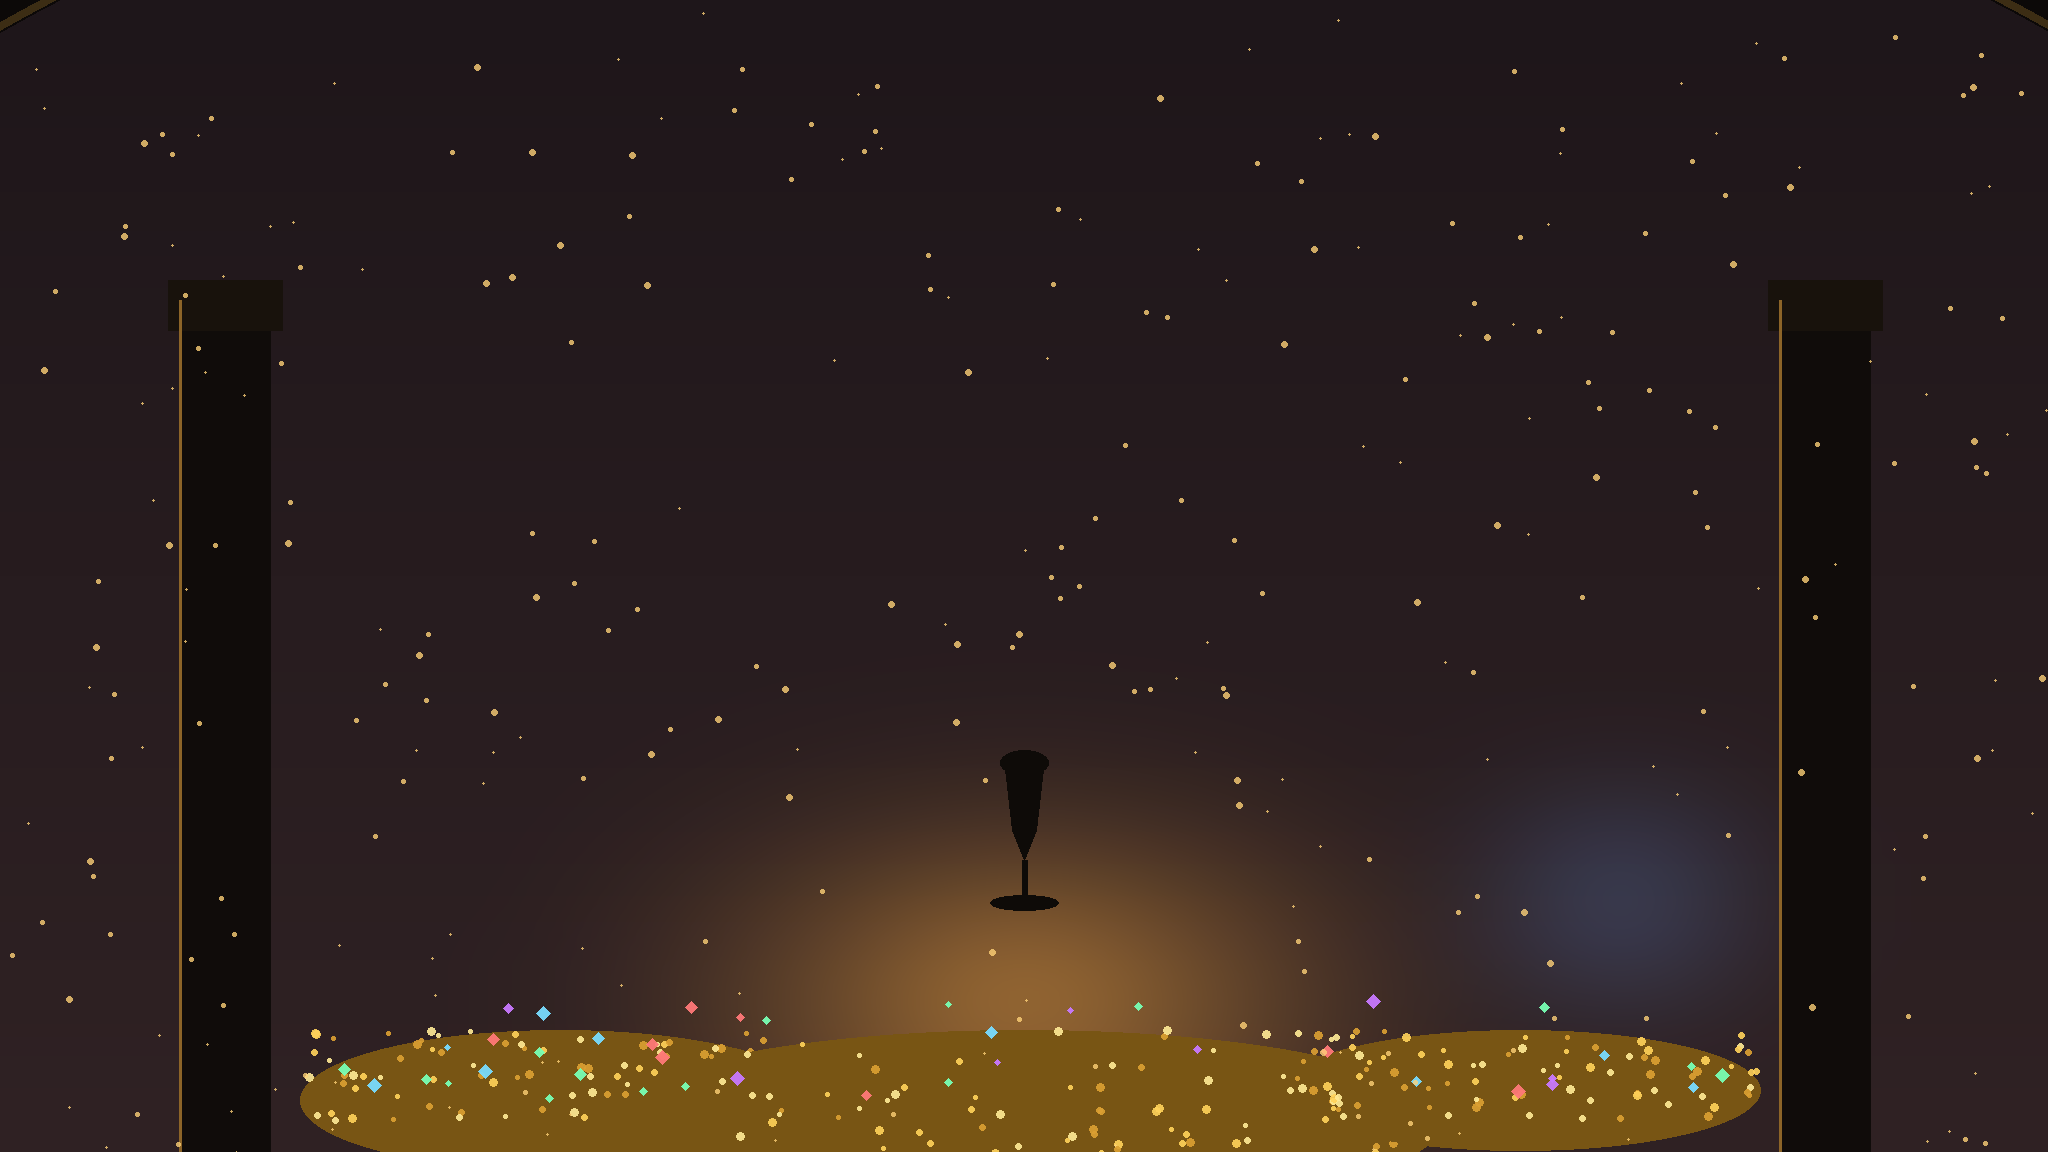
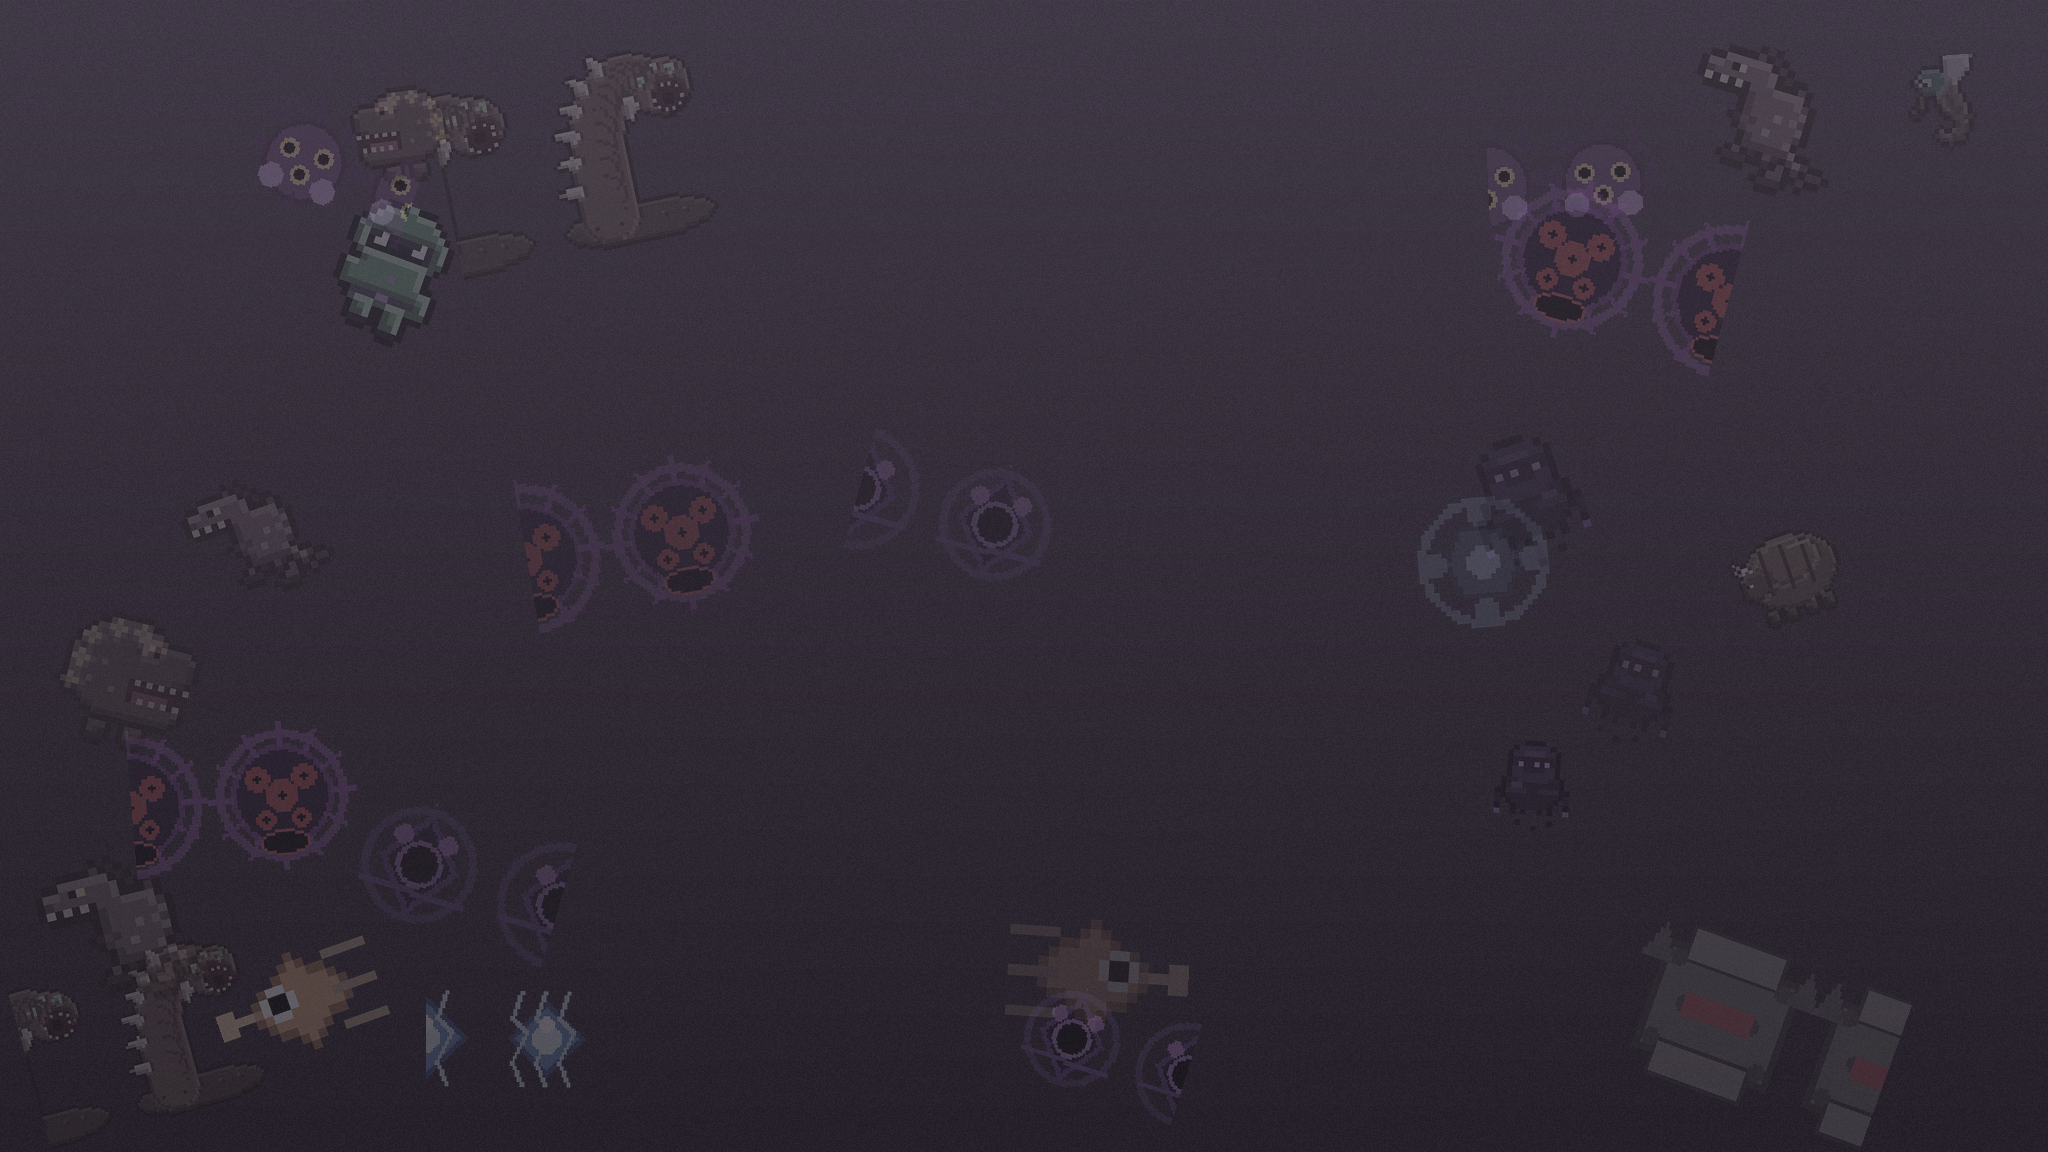
v1.1.4: landing rebuilt Brotato-style — doodle wall, hero Ironheart, text menu

diff --git a/style.css b/style.css
@@ -285,48 +285,78 @@ input[type=checkbox]{accent-color:var(--accent);width:16px;height:16px;cursor:po
 .class-btn.locked:hover{transform:none;filter:grayscale(0.7)}
 }
 
-/* ---------- Brotato-style landing (v0.7.6) ---------- */
+/* ---------- Brotato-style landing (v1.1.4) ---------- */
 #menu.landing-mode{
   width:100vw; height:100vh; max-height:100vh; left:50%; top:50%;
   border:none; border-radius:0; padding:0; box-shadow:none; overflow:hidden;
-  background:#0a0e14 url('assets/ui/menu_bg.png') center/cover no-repeat;
+  background:#221d26 url('assets/ui/menu_bg.png') center/cover no-repeat;
   animation:none;
 }
 #menu.landing-mode::before{
   content:''; position:absolute; inset:0;
-  background:radial-gradient(ellipse at 50% 42%, transparent 30%, rgba(4,6,10,.55) 75%, rgba(2,3,6,.88) 100%);
+  background:radial-gradient(ellipse at 50% 42%, transparent 30%, rgba(4,6,10,.45) 75%, rgba(2,3,6,.8) 100%);
   pointer-events:none;
 }
 #menuStepLanding{ position:relative; width:100%; height:100%; }
-.landing-logo{ position:absolute; top:9%; left:0; right:0; text-align:center; pointer-events:none; }
+.landing-logo{ position:absolute; top:7%; left:0; right:0; text-align:center; pointer-events:none; transform:rotate(-1.2deg); }
 .logo-pressure, .logo-point{
   font-family:'Trebuchet MS','Segoe UI',system-ui,sans-serif; font-weight:900;
-  font-size:clamp(54px, 9vw, 118px); line-height:.95; letter-spacing:2px; color:#fff;
+  font-size:clamp(48px, 8vw, 104px); line-height:.95; letter-spacing:2px; color:#fff;
   text-shadow:
-    -3px -3px 0 #101418, 3px -3px 0 #101418, -3px 3px 0 #101418, 3px 3px 0 #101418,
-    -3px 0 0 #101418, 3px 0 0 #101418, 0 -3px 0 #101418, 0 3px 0 #101418,
+    -4px -4px 0 #101418, 4px -4px 0 #101418, -4px 4px 0 #101418, 4px 4px 0 #101418,
+    -4px 0 0 #101418, 4px 0 0 #101418, 0 -4px 0 #101418, 0 4px 0 #101418,
     0 8px 0 rgba(0,0,0,.55), 0 14px 28px rgba(0,0,0,.6);
 }
 .logo-point{ color:#ff5d4d; }
-.logo-sub{ margin-top:10px; font-size:clamp(13px, 1.6vw, 19px); font-weight:700;
+.logo-o{
+  height:.92em; width:auto; image-rendering:pixelated;
+  vertical-align:-.08em; margin:0 .01em;
+  filter:drop-shadow(0 4px 0 rgba(0,0,0,.55));
+}
+.logo-sub{ margin-top:12px; font-size:clamp(13px, 1.6vw, 19px); font-weight:700;
   color:#dbe8ff; text-shadow:0 2px 0 #000, 0 0 18px rgba(0,0,0,.8); letter-spacing:1px; }
+/* hero: Ironheart centre-stage in a warm spotlight pool */
+.landing-spotlight{ position:absolute; left:50%; top:76%; width:min(560px, 48vw); height:130px;
+  transform:translate(-50%,-50%); border-radius:50%; pointer-events:none;
+  background:radial-gradient(ellipse at center, rgba(216,178,118,.5) 0%, rgba(190,150,95,.28) 45%, rgba(190,150,95,0) 70%); }
+.landing-hero{ position:absolute; left:50%; top:52%; transform:translateX(-50%);
+  height:clamp(120px, 21vh, 200px); width:auto; image-rendering:pixelated; pointer-events:none;
+  filter:drop-shadow(0 12px 14px rgba(0,0,0,.55)); }
+@media (prefers-reduced-motion: no-preference){
+  .landing-hero{ animation:heroBob 2.4s ease-in-out infinite alternate; }
+  @keyframes heroBob{ from{ transform:translateX(-50%) translateY(0); } to{ transform:translateX(-50%) translateY(-7px); } }
+}
+/* menu: one left column, plain text like Brotato — Start leads */
 .landing-cols{ position:absolute; inset:0; pointer-events:none; }
-.landing-left.menu-left-col{ position:absolute; left:4%; top:42%; display:flex; flex-direction:column; gap:10px; pointer-events:auto; align-items:flex-start; }
-.menu-left-col .btn-compact{ min-width:160px; font-size:14px; padding:9px 18px; }
-.landing-right{ position:absolute; right:4%; top:52%; display:flex; flex-direction:column; gap:12px;
-  align-items:flex-end; pointer-events:auto; }
-.btn-huge{ font-size:clamp(22px, 2.6vw, 34px) !important; padding:16px 58px !important; border-radius:16px !important; }
-.landing-right .btn{ min-width:190px; font-size:17px; padding:11px 22px; text-align:center; }
+.landing-left.menu-left-col{ position:absolute; left:4%; top:44%; display:flex; flex-direction:column; gap:6px; pointer-events:auto; align-items:flex-start; }
+.landing-menu-btn{
+  background:transparent !important; border:none !important; box-shadow:none !important;
+  color:#fff; font-weight:800; font-size:15px; text-align:left;
+  padding:5px 2px; min-width:0;
+  text-shadow:-2px -2px 0 #101418, 2px -2px 0 #101418, -2px 2px 0 #101418, 2px 2px 0 #101418, 0 3px 0 rgba(0,0,0,.5);
+  transition-property:color, transform;
+  transition-duration:150ms; transition-timing-function:ease-out;
+  -webkit-tap-highlight-color:transparent;
+}
+.landing-start-btn{ font-size:clamp(24px, 2.6vw, 32px); color:#5ff2c8; padding:8px 2px; }
+@media (hover:hover){
+  .landing-menu-btn:hover{ color:#5ff2c8; transform:translateX(4px); background:transparent !important; }
+  .landing-start-btn:hover{ color:#8ffce0; }
+}
+.landing-menu-btn:active:not(:disabled){ transform:scale(.96); }
+.landing-menu-btn:focus-visible{ outline:2px solid #5ff2c8; outline-offset:3px; border-radius:6px; }
 .landing-version{ position:absolute; right:18px; bottom:12px; font-size:13px; color:#8fa8c8; font-weight:700;
   text-shadow:0 1px 0 #000; }
 .landing-hint{ position:absolute; left:0; right:0; bottom:12px; text-align:center; font-size:13px;
   color:#9db4d4; text-shadow:0 1px 0 #000; }
-/* portrait phones: stack the landing buttons vertically instead of two columns */
+/* portrait phones: hero up top, menu stacked centred at the bottom */
 @media (max-width:640px){
-  .landing-cols{ display:flex; flex-direction:column; align-items:center; justify-content:flex-end; gap:12px; padding-bottom:9%; }
-  .landing-left, .landing-right{ position:static; transform:none; align-items:center; }
-  .landing-right .btn{ min-width:220px; }
-  .btn-huge{ padding:14px 44px !important; }
+  .landing-logo{ top:5%; }
+  .landing-hero{ top:38%; height:15vh; }
+  .landing-spotlight{ top:53%; width:66vw; height:64px; }
+  .landing-cols{ display:flex; flex-direction:column; align-items:center; justify-content:flex-end; gap:6px; padding-bottom:9%; }
+  .landing-left{ position:static; transform:none; align-items:center; }
+  .landing-menu-btn{ text-align:center; }
   .landing-version{ bottom:2px; }
 }
 /* touch devices: keyboard hints are useless — hide them */
@@ -346,8 +376,6 @@ input[type=checkbox]{accent-color:var(--accent);width:16px;height:16px;cursor:po
 #menu .btn{ font-size:clamp(14px, 1.35vw, 18px); }
 .select-grid .btn, .class-list .btn, .weapon-list .btn{ font-size:clamp(13px, 1.25vw, 16px); }
 @media (max-width:700px){
-  .landing-right{ top:auto; bottom:64px; }
-  .landing-left{ top:auto; bottom:64px; }
   .logo-pressure, .logo-point{ font-size:15vw; }
 }
 /* hide the old header buttons + title while the landing is up (it has its own) */

diff --git a/Index.html b/Index.html
@@ -39,23 +39,23 @@
       <div id="menuStepLanding" class="menu-step">
         <div class="landing-logo">
           <div class="logo-pressure">PRESSURE</div>
-          <div class="logo-point">POINT</div>
+          <div class="logo-point">P<img class="logo-o" src="assets/ui/hero_ironheart.png" alt="">INT</div>
           <div class="logo-sub">Survive 20 waves. Beat the Overlord.</div>
         </div>
+        <div class="landing-spotlight"></div>
+        <img class="landing-hero" src="assets/ui/hero_ironheart.png" alt="Ironheart">
         <div class="landing-cols left-aligned-menu">
           <div class="landing-left menu-left-col">
-            <button id="landingStartBtn" class="btn btn-primary btn-huge" type="button">Start</button>
-            <button id="landingHowBtn" class="btn btn-secondary btn-compact" type="button">How to Play</button>
-            <button id="landingLeaderboardBtn" class="btn btn-secondary btn-compact" type="button">Leaderboard</button>
-            <button id="landingCreditsBtn" class="btn btn-secondary btn-compact" type="button">Credits</button>
-          </div>
-          <div class="landing-right menu-right-col">
-            <button id="landingAchBtn" class="btn btn-secondary" type="button">Achievements</button>
-            <button id="landingUpgBtn" class="btn btn-secondary" type="button">Upgrades <span id="landingEssence" style="color:#b27bff">0</span></button>
-            <button id="landingSetBtn" class="btn btn-secondary" type="button">Settings</button>
+            <button id="landingStartBtn" class="btn btn-primary landing-menu-btn landing-start-btn" type="button">Start</button>
+            <button id="landingHowBtn" class="btn btn-secondary landing-menu-btn" type="button">How to Play</button>
+            <button id="landingLeaderboardBtn" class="btn btn-secondary landing-menu-btn" type="button">Leaderboard</button>
+            <button id="landingCreditsBtn" class="btn btn-secondary landing-menu-btn" type="button">Credits</button>
+            <button id="landingAchBtn" class="btn btn-secondary landing-menu-btn" type="button">Achievements</button>
+            <button id="landingUpgBtn" class="btn btn-secondary landing-menu-btn" type="button">Upgrades <span id="landingEssence" style="color:#b27bff">0</span></button>
+            <button id="landingSetBtn" class="btn btn-secondary landing-menu-btn" type="button">Settings</button>
           </div>
         </div>
-        <div class="landing-version">v1.1.3</div>
+        <div class="landing-version">v1.1.4</div>
         <div class="landing-hint">P1: WASD + Shift (dash) &nbsp;•&nbsp; P2: Arrow keys + U (dash)</div>
       </div>
 

diff --git a/tools/gen_landing_bg.py b/tools/gen_landing_bg.py
@@ -1,0 +1,107 @@
+#!/usr/bin/env python3
+"""Landing background, Brotato-style: dark mauve wall covered in faint doodles
+of the game's OWN enemy sprites, plus cropped hero/logo-face assets.
+
+Doodles are the real pixel art, desaturated and dimmed to read as pencil
+sketches -- no generated gradients pretending to be art. Spotlight pool is
+done in CSS so it always sits exactly under the hero.
+"""
+import random, os
+from PIL import Image, ImageDraw, ImageFilter, ImageEnhance
+
+ROOT = os.path.dirname(os.path.dirname(os.path.abspath(__file__)))
+W, H = 2048, 1152
+random.seed(13700)  # fixed seed: same wall every run
+
+def frame0(path):
+    im = Image.open(path).convert('RGBA')
+    fw = im.width // 4
+    return im.crop((0, 0, fw, im.height))
+
+def to_doodle(im):
+    """Faint, mostly-desaturated version of a sprite frame -- the face and
+    colours stay readable, it just recedes into the wall."""
+    d = ImageEnhance.Color(im.convert('RGBA')).enhance(0.45)
+    d = ImageEnhance.Brightness(d).enhance(0.95)
+    return d
+
+# --- base: dark mauve-grey vertical gradient (Brotato wall) ---
+top = (62, 54, 68)
+bot = (34, 29, 38)
+base = Image.new('RGB', (W, H))
+px = base.load()
+for y in range(H):
+    t = y / H
+    c = tuple(int(top[i] + (bot[i] - top[i]) * t) for i in range(3))
+    for x in range(W):
+        px[x, y] = c
+base = base.convert('RGBA')
+
+# --- grain ---
+import numpy as np
+noise = np.random.default_rng(7).integers(0, 14, (H, W), dtype=np.uint8)
+grain = Image.fromarray(noise, 'L')
+base = Image.composite(
+    Image.blend(base.convert('RGB'), Image.new('RGB', (W, H), (255, 255, 255)), 0.03),
+    base.convert('RGB'), grain.point(lambda v: 255 if v > 6 else 0))
+base = base.convert('RGBA')
+
+# --- doodle wall ---
+enemy_dir = os.path.join(ROOT, 'assets/sprites/enemies')
+files = sorted(f for f in os.listdir(enemy_dir)
+               if f.startswith('enemy_') and f.endswith('.png'))
+sprites = [to_doodle(frame0(os.path.join(enemy_dir, f))) for f in files]
+# a couple of player classes join the wall too
+for p in ['player_foxglove_down.png', 'player_glassjaw_down.png']:
+    sprites.append(to_doodle(frame0(os.path.join(ROOT, 'assets/sprites/players', p))))
+
+def clear_zone(x, y):
+    # keep the logo (top centre) and hero (centre) readable
+    if 0.28 < x / W < 0.72 and y / H < 0.34:
+        return False
+    if 0.34 < x / W < 0.66 and 0.48 < y / H < 0.80:
+        return False
+    return True
+
+placed = 0
+tries = 0
+while placed < 26 and tries < 300:
+    tries += 1
+    s = random.choice(sprites)
+    # normalise by height so big and small enemies read the same size
+    target_h = random.uniform(95, 210)
+    scale = target_h / s.height
+    w, h = int(s.width * scale), int(s.height * scale)
+    x = random.randint(-40, W - w + 40)
+    y = random.randint(-40, H - h + 40)
+    if not clear_zone(x + w // 2, y + h // 2):
+        continue
+    d = s.resize((w, h), Image.NEAREST)
+    d = d.rotate(random.uniform(-20, 20), resample=Image.BICUBIC, expand=True)
+    if random.random() < 0.5:
+        d = d.transpose(Image.FLIP_LEFT_RIGHT)
+    alpha = random.uniform(0.14, 0.28)
+    # scale the doodle's alpha channel
+    r, g, b, a = d.split()
+    a = a.point(lambda v: int(v * alpha))
+    d = Image.merge('RGBA', (r, g, b, a))
+    base.alpha_composite(d, (x, y))
+    placed += 1
+
+# --- vignette: darken edges ---
+vig = Image.new('L', (W, H), 0)
+vd = ImageDraw.Draw(vig)
+vd.ellipse((-W * 0.25, -H * 0.35, W * 1.25, H * 1.35), fill=255)
+vig = vig.filter(ImageFilter.GaussianBlur(180))
+dark = Image.new('RGBA', (W, H), (8, 6, 10, 255))
+base = Image.composite(base, dark, vig)
+
+base.convert('RGB').save(os.path.join(ROOT, 'assets/ui/menu_bg.png'), quality=92)
+print('menu_bg.png written,', placed, 'doodles')
+
+# --- cropped assets: hero frame + logo face ---
+hero = frame0(os.path.join(ROOT, 'assets/sprites/players/player_ironheart_down.png'))
+hero.save(os.path.join(ROOT, 'assets/ui/hero_ironheart.png'))
+# head crop: top 10px of the 16x21 frame = helmet + visor only
+hero.crop((0, 0, 16, 10)).save(os.path.join(ROOT, 'assets/ui/logo_face.png'))
+print('hero_ironheart.png + logo_face.png written')

diff --git a/README.md b/README.md
@@ -1,4 +1,4 @@
-# Pressure Point — v1.0
+# Pressure Point — v1.1.4
 
 **[Play online](https://chickenthedev.github.io/Pressure-Point/)** — no download, full lighting and effects.
 
@@ -8,23 +8,18 @@ in order to get maximum performance use the zip file in releases and double clic
 
 A polished, local Brotato-inspired top-down arena shooter built with HTML5 Canvas and JavaScript.
 
-## Latest Changes (v1.0 — Full release)
-- **Map is 3x bigger**: the arena is 3x the viewport in each dimension, with a camera that follows you, enemies spawning just off-screen, and a live minimap (players, enemies, elites, bosses, loot, turrets).
-- **Touch controls**: phones and tablets are auto-detected — twin virtual sticks (left moves, right aims and fires, auto-fire when idle) plus a dash button.
-- **Dust everywhere**: expanding dust puffs on dashes, landings, explosions, kills, slams, and revives.
-- **Ambient birds**: little birds hop around the arena and scatter when danger gets close.
-- **Bug fixes**: kills no longer award double XP/currency; shock-chain kills can't delete the wrong enemy.
-- **Boss loot + mid-wave elites**: bosses drop a free item and a money shower; waves 3+ get an elite pack event.
-- **Graphics juice**: white-hot muzzle flashes, melee swing arcs, crit damage numbers, shockwave rings on every explosion.
-- **Fresh weapon art**: 23 weapons now use Sam's cartoon-style sprites with smooth (non-pixelated) icons.
-- **Fresh menu art**: elemental convergence — fire, ice, storm, and void spiraling into one core.
+## Latest Changes (v1.1.4 — Landing rebuilt Brotato-style)
+- **Doodle-wall background**: the menu background is now a dark mauve wall covered in faint sketches of the game's own enemies — Sam's pixel art, desaturated and dimmed, instead of generated art.
+- **Ironheart centre-stage**: the player character stands in a warm spotlight pool under the logo, and in the O of POINT, like Brotato's potato.
+- **One left menu column, plain text**: Start (teal) then How to Play, Leaderboard, Credits, Achievements, Upgrades, Settings — bold text, no boxes, hover slides teal.
+- **Fresh menu art**: Doodle Wall.
 
-## Previous (v0.9 — Elemental reactions, Engineer class)
-- **Elemental reactions**: Detonate, Melt, Shatter, Hex Spread cross-element combos.
-- **Engineer class** (unlock: Turret Master): free Sentry Turret, +50% turret damage/uptime.
+## Previous (v1.1.3 — Shop odds rebalanced)
+- **Luck is now a zero-sum shift**: legendary shops follow 5/10/15/20% at luck 0/5/10/15+ instead of flooding at +2 luck.
+- **New mythic rarity** (top tier, 2.5x stats/price, max 10% of shops); two legendaries combine into a mythic.
 
-## Previous (v0.8.3 — Turrets, second wind, elemental sets, upgrades)
-- **Elemental set bonuses** (Inferno/Glacier/Storm/Hex), **weapon MK II/III upgrades**, **Second Wind** revives, **Sentry Turret** item.
+## Previous (v1.1.2 — Dust shockwave explosions)
+- **Explosions now throw a dust shockwave**: a ring of 26 dust puffs racing outward from every blast.
 
 
 

diff --git a/CHANGELOG.md b/CHANGELOG.md
@@ -1,3 +1,11 @@
+## v1.1.4 — Landing rebuilt Brotato-style (doodle wall, hero Ironheart)
+
+- **Landing rebuilt to match the Brotato reference Sam sent**: the Gilded Vault art is gone — the background is now a dark mauve wall covered in faint doodles of the game's own enemy sprites (runner, bruiser, sandworm, gloomweaver, nester, aegis...), desaturated and dimmed so they read as pencil sketches. Nothing AI-looking: every doodle is Sam's own pixel art.
+- **Ironheart is the hero now**: the player character stands centre-stage in a warm sandy spotlight pool with a gentle idle bob (gated behind `prefers-reduced-motion`), and the same sprite stands in the O of POINT in the logo — like Brotato's potato in the O.
+- **Menu is one left column of plain text**: Start (teal, leads), How to Play, Leaderboard, Credits, Achievements, Upgrades, Settings — no boxes, just bold text with a black outline; hover slides right and turns teal, press scales to 0.96 (better-ui values). Logo got a chunkier 4px outline and a slight hand-drawn tilt.
+- **Verified**: full menu flow Start → map → class → weapon → danger → wave works, zero page errors, phone portrait stacks cleanly with no sideways pan (scrollWidth exactly 390).
+- **New menu art**: Doodle Wall — the enemy-sketch wall (fresh art per the every-update rule).
+
 ## v1.1.3 — Shop odds rebalanced (luck no longer floods legendaries)
 
 - **Found it — luck was inflating the top end with no tradeoff**: the shop roller added luck weight on top of a fixed common 55, so just +2 luck (one class pick, or two cheap +1 items) quadrupled the legendary rate from 2% to 8.3% per slot, and 41% of shops showed a legendary. At luck 5, 60% of shops had one; at luck 10, 74%. Legendaries stopped feeling legendary.
